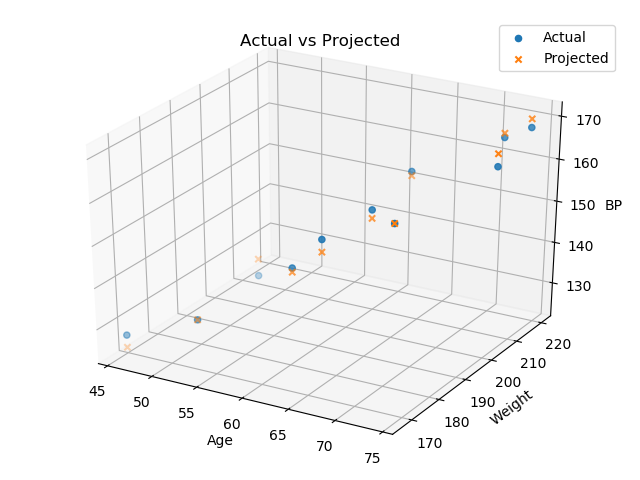
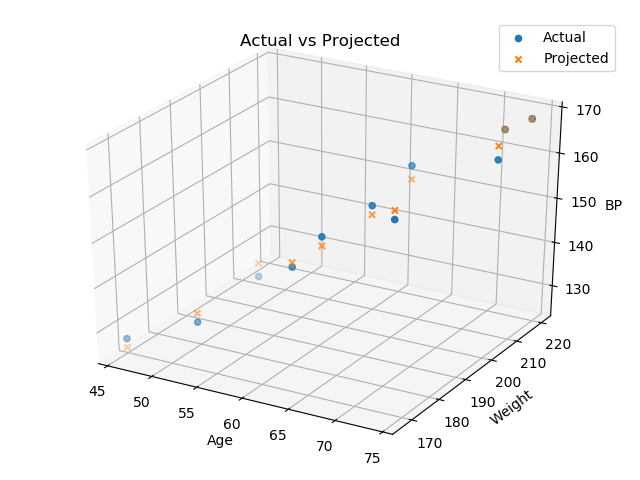
Cleaned up Runner; Generated final plots; Cleaned up print statements;

diff --git a/Runner.py b/Runner.py
@@ -24,14 +24,8 @@ class Runner:
         self.linear_regression_learner.train(normalized_data)
 
         feature_data = normalized_data[:, :-1]
-        labels = normalized_data[:, -1].flatten()
-        predictions = self.linear_regression_learner.predict_all_records(feature_data)
-        cost = self.linear_regression_learner.calculate_cost(predictions, labels)
-
-        print("Labels: ", data[:, -1])
-        predictions = np.around(DataService.min_max_denormalize_predictions(data[:, -1], predictions))
-        print("Predictions", )
-        print('Cost: ', cost)
+        normalized_predictions = self.linear_regression_learner.predict_all_records(feature_data)
+        predictions = np.around(DataService.min_max_denormalize_predictions(data[:, -1], normalized_predictions))
 
         PlotService.plot_line(
             x=range(1, len(self.linear_regression_learner.cost_history) + 1),
@@ -40,7 +34,23 @@ class Runner:
             y_label="Training Cost",
             title="Training Learning Curve")
 
-        #best documented theta: -0.03028008  0.52666306  0.51706439
+        #best documented theta: -0.04973713  0.7198039   0.33875262
+
+        x, y, z = self.build_model_plot_data(data, predictions)
+        PlotService.plot3d_line(x, y, z, labels=['Age', 'Weight', 'BP'],
+                                title="Linear Model: Blood Pressure for Age and Weight." )
+
+        projected_data = data.copy()
+        projected_data[:, -1] = predictions
+        PlotService.plot3d_scatter_compare(data, projected_data, labels=['Age', 'Weight', 'BP'],
+                                title="Actual vs Projected")
+
+        labels = normalized_data[:, -1].flatten()
+        cost = self.linear_regression_learner.calculate_cost(normalized_predictions, labels)
+        print("Final Normalized Cost: ", cost)
+
+    @staticmethod
+    def build_model_plot_data(data, predictions):
 
         age = data[:, 0].flatten()
         weight = data[:, 1].flatten()
@@ -49,14 +59,7 @@ class Runner:
         x = [age[min_predict_index], age[max_predict_index]]
         y = [weight[min_predict_index], weight[max_predict_index]]
         z = [predictions[min_predict_index], predictions[max_predict_index]]
-
-        PlotService.plot3d_line(x, y, z, labels=['Age', 'Weight', 'BP'],
-                                title="Linear Model: Blood Pressure for Age and Weight." )
-
-        projected = data.copy()
-        projected[:, -1] = predictions
-        PlotService.plot3d_scatter_compare(data, projected, labels=['Age', 'Weight', 'BP'],
-                                title="Actual vs Projected")
+        return x, y, z
 
 
 if __name__ == "__main__":

diff --git a/linear_regression_learner.py b/linear_regression_learner.py
@@ -41,6 +41,7 @@ class LinearRegressionLearner:
 
         print('min_cost_index: ', min_cost_index)
         print('min_cost_theta: ', self.theta)
+
         self.cost_history = self.cost_history[:min_cost_index + 1]
 
     def update_theta_gradient_descent(self, predictions, data):

diff --git a/data_service.py b/data_service.py
@@ -29,6 +29,4 @@ class DataService:
         labels_min = np.amin(actual_labels)
         labels_max = np.amax(actual_labels)
 
-        print(labels_min, labels_max)
-
         return predictions * (labels_max - labels_min) + labels_min
